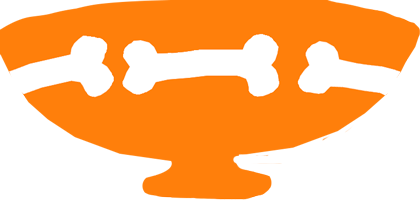
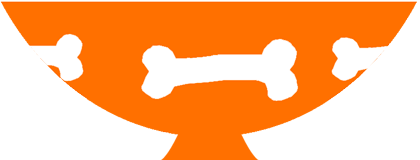
Fixed my flat fault

Changed region(s): [[0.0, 0.0, 1.0, 1.0]]

diff --git a/app/styles/main.scss b/app/styles/main.scss
@@ -46,9 +46,9 @@ body {
 #dish {
   background-image: url("../images/dish.png");
   width: 420px;
-  height: 200px;
+  height: 160px;
   position: absolute;
-  bottom: 36px;
+  bottom: 42px;
   left: 50%;
   margin-left: -210px;
   z-index: 10;
